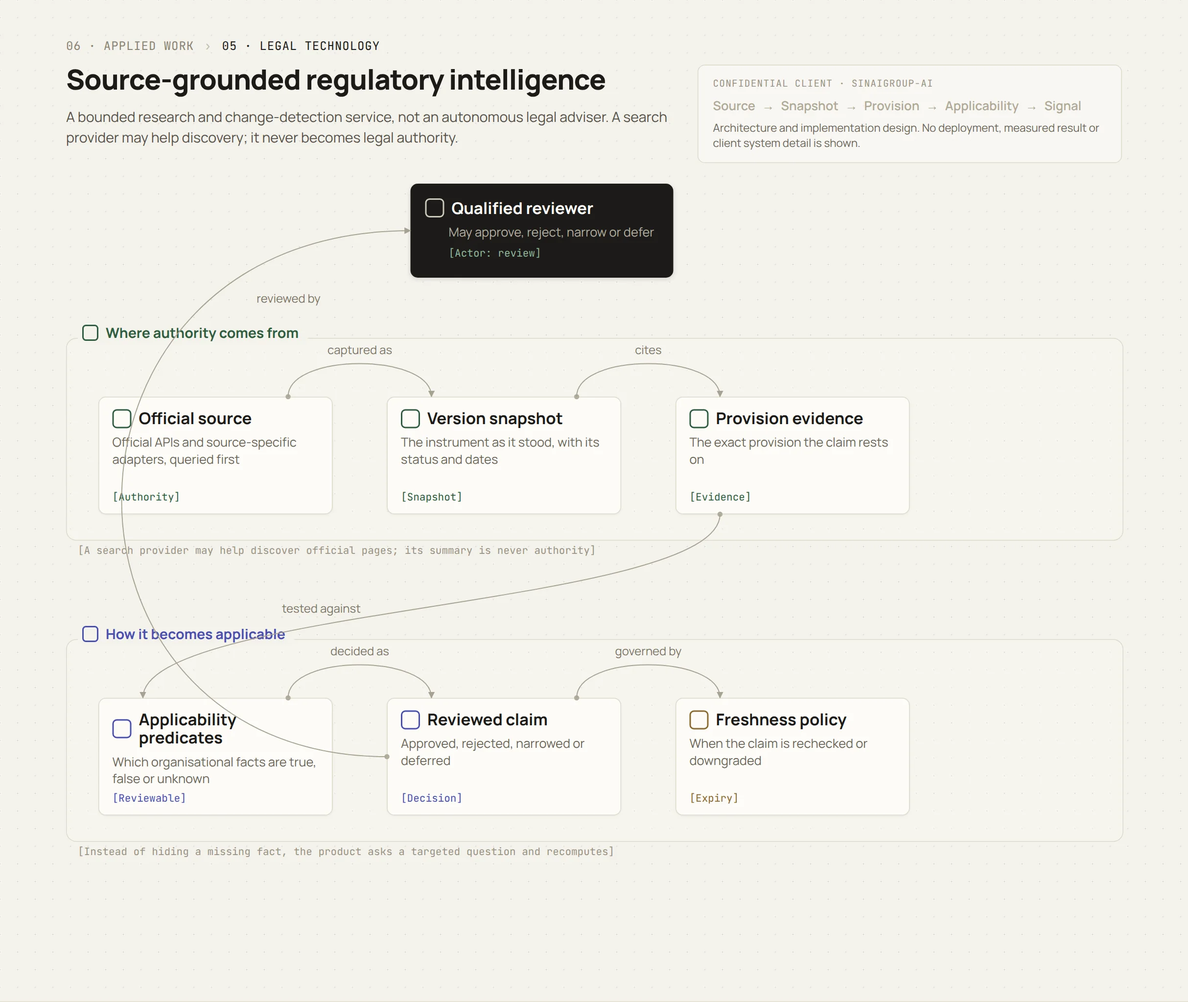
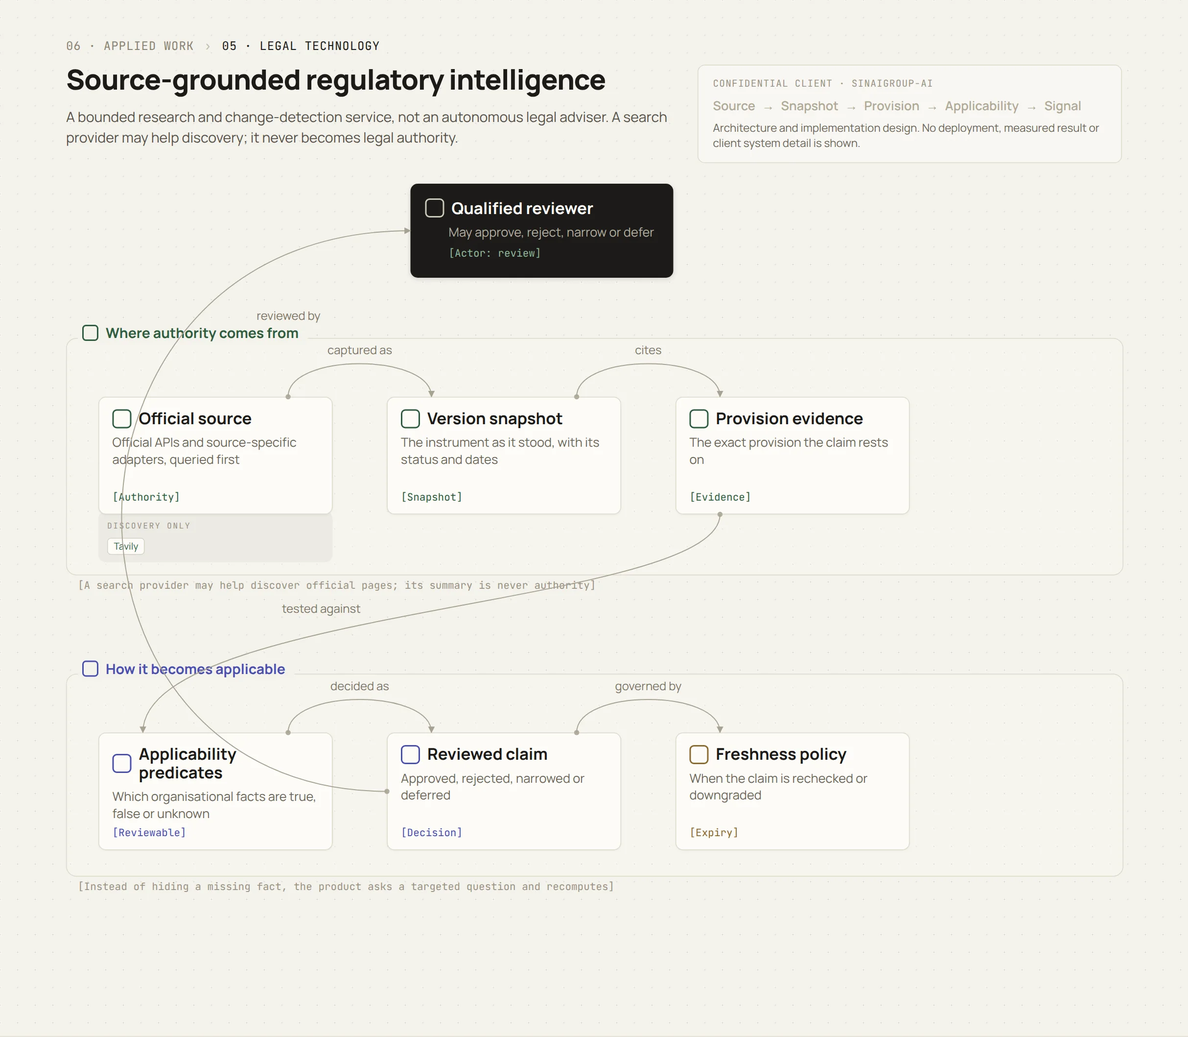
Applied work: restore the TOOLS strips on the legal-operations boards
I dropped them while anonymising the client. That was an over-correction: the
website-ready draft publishes these technologies in its own technology
foundation table, so they were cleared for the public page all along.

Strips carry only names that draft publishes:

  02  version-bound execution  TOOLS            AWS Step Functions, Lambda, S3
  02  AI candidates            TOOLS            Amazon Bedrock
  02  validation               TOOLS            Promptfoo
  01  assurance foundation     TOOLS            Step Functions, Lambda, S3, Bedrock
  04  delivery evidence        TOOLS            EventBridge Scheduler
  05  official source          DISCOVERY ONLY   Tavily
  07  mailbox connector        CANDIDATES       Gmail, Microsoft Graph
  08  foundation / evaluation  TOOLS            Step Functions, Lambda, S3 / Promptfoo

Board 06 carries none; it is about signal meaning, not tooling. The custom
strip labels use the kit's own mechanism, as India board 10 does.

The named technologies are restored in the copy too - the tags, rows 02, 04,
05, 07 and the row 10 preserved / proposed grid.

The client identity stays fully removed: the company name appears 0 times and
nothing from the repository reconstruction reaches the page - no repo path,
function, table, bucket, database project, account, region, domain, model id
or environment. Audited by string check.

Geometry measured in Chromium across all seven boards: 43 component cards all
[…]

diff --git a/index.html b/index.html
@@ -1899,14 +1899,14 @@
 <h2 class="cs-heading">From legal analysis to<br><span class="gold">governed legal action.</span></h2>
 <p class="cs-intro">A problem-solution architecture for a provider of a legal operating system for companies &mdash; a platform that analyses contracts and matter documents as they arrive and links findings back to their source clauses. The client is not named here.</p>
 <p class="cs-intro">The engagement began at the point where capable analysis starts to create operational consequence. A model finding may later drive a deadline, a reminder, a regulatory signal or an email-derived task. At that boundary, a plausible answer is not enough. The system must establish what ran, which evidence supports the result, what uncertainty remains, who approved it and what action the result is permitted to influence.</p>
-<p class="cs-intro">We reviewed the supplied platform baseline and prepared one unified problem-solution architecture and implementation plan. The recommendation was not to replace the platform or introduce a new orchestration framework. It was to preserve the existing cloud-native core and add the execution, evidence, evaluation and human-authority controls required for governed legal operations.</p>
+<p class="cs-intro">We reviewed the supplied platform baseline and prepared one unified problem-solution architecture and implementation plan. The recommendation was not to replace the platform or introduce a new orchestration framework. It was to preserve the existing AWS-native core and add the execution, evidence, evaluation and human-authority controls required for governed legal operations.</p>
 <dl class="cs-facts">
 <div><dt>Client</dt><dd>Confidential client &mdash; a provider of a legal operating system for companies</dd></div>
 <div><dt>Industry</dt><dd>Legal technology &amp; legal operations</dd></div>
 <div><dt>Scope</dt><dd>AI assurance, deadline architecture, regulatory intelligence, product-signal semantics, email ingestion and staged delivery governance</dd></div>
 </dl>
 <ul class="cs-tags">
-<li>AWS</li><li>AI evaluation</li><li>Regulatory intelligence</li><li>AI assurance</li><li>AI governance</li>
+<li>AWS</li><li>Amazon Bedrock</li><li>Promptfoo</li><li>AI evaluation</li><li>AI governance</li>
 </ul>
 <ul class="cs-jump" aria-label="Sections of this case">
 <li><a href="#par-challenge">The challenge</a></li>
@@ -1933,7 +1933,7 @@
 <p>The platform already had a sophisticated document-analysis pipeline. The unresolved issue was not whether the models could produce useful findings. It was whether a material finding could be trusted, reproduced and safely acted upon after the prompt, model, document set or legal context changed.</p>
 <p>The most dangerous failure is compositional: each individual part can look reasonable while the combined result is wrong. A system may identify the correct obligation, assign it to the wrong party, miss a later amendment and still present a confident positive status. The architecture therefore had to govern the chain, not only improve isolated model outputs.</p>
 <p><span class="cs-label">The requirement:</span> govern the chain, so that a finding carries its evidence, its uncertainty and its permitted consequence.</p>
-<figure class="cs-diagram"><figcaption><span>Five requests, one foundation</span><a href="diagrams/par-five-requests.webp" target="_blank" rel="noopener">Open full size &#8599;</a></figcaption><a class="cs-diagram-view" href="diagrams/par-five-requests.webp" target="_blank" rel="noopener" aria-label="Open full-size diagram: Five requests, one foundation"><img src="diagrams/par-five-requests.webp" width="2427" height="2445" loading="lazy" decoding="async" alt="Five product requests - AI quality, material dates, regulatory research, the traffic-light signal and email integration - all resting on one shared assurance foundation of version binding, evidence, evaluation and human authority."></a></figure>
+<figure class="cs-diagram"><figcaption><span>Five requests, one foundation</span><a href="diagrams/par-five-requests.webp" target="_blank" rel="noopener">Open full size &#8599;</a></figcaption><a class="cs-diagram-view" href="diagrams/par-five-requests.webp" target="_blank" rel="noopener" aria-label="Open full-size diagram: Five requests, one foundation"><img src="diagrams/par-five-requests.webp" width="2427" height="2559" loading="lazy" decoding="async" alt="Five product requests - AI quality, material dates, regulatory research, the traffic-light signal and email integration - all resting on one shared assurance foundation of version binding, evidence, evaluation and human authority."></a></figure>
 </div>
 </article>
 
@@ -1942,10 +1942,10 @@
 <div class="cs-body">
 <h3 class="rtitle">The design decision</h3>
 <p class="cs-question">What should be preserved, and what must be added around it?</p>
-<p>The audit did not support a platform rewrite. The existing state-level decomposition, object-store source orientation, quotation fields, deterministic quote-offset resolution, structured analysis slices, human review points and layered authorisation were useful foundations. Replacing the orchestration layer merely to obtain an evaluation framework would have introduced another large variable without supplying ground truth, version binding or release policy.</p>
+<p>The audit did not support a platform rewrite. The existing state-level decomposition, S3-backed source orientation, quotation fields, deterministic quote-offset resolution, structured analysis slices, human review points and layered authorisation were useful foundations. Replacing Step Functions merely to obtain an evaluation framework would have introduced another large variable without supplying ground truth, version binding or release policy.</p>
 <p>The architectural decision was to add a governed control layer around the existing engine: one authoritative, idempotent path for creating an analysis run; an immutable manifest binding the source object, code artefact, rendered prompt, schema, taxonomy, model configuration, guardrail and policy before execution; server-side human gates that expose only opaque identifiers and preserve the candidate and the reviewer decision separately; append-only candidate, decision and slice revisions with explicit approved pointers; evidence-propagation rules that prevent unsupported quotations from gaining downstream authority; and a durable assurance ledger that survives the retention window of operational orchestration history.</p>
 <p class="cs-quote">Source evidence &rarr; Version-bound execution &rarr; AI candidates &rarr; Validation &rarr; Human authority &rarr; Scoped action &rarr; Outcome and learning</p>
-<figure class="cs-diagram"><figcaption><span>The governed control layer</span><a href="diagrams/par-control-layer.webp" target="_blank" rel="noopener">Open full size &#8599;</a></figcaption><a class="cs-diagram-view" href="diagrams/par-control-layer.webp" target="_blank" rel="noopener" aria-label="Open full-size diagram: The governed control layer"><img src="diagrams/par-control-layer.webp" width="2427" height="2046" loading="lazy" decoding="async" alt="Source evidence is bound into a version-bound execution manifest, which produces AI candidates; validation authorises a scoped action and records the outcome, with human authority approving between the two."></a></figure>
+<figure class="cs-diagram"><figcaption><span>The governed control layer</span><a href="diagrams/par-control-layer.webp" target="_blank" rel="noopener">Open full size &#8599;</a></figcaption><a class="cs-diagram-view" href="diagrams/par-control-layer.webp" target="_blank" rel="noopener" aria-label="Open full-size diagram: The governed control layer"><img src="diagrams/par-control-layer.webp" width="2427" height="2187" loading="lazy" decoding="async" alt="Source evidence is bound into a version-bound execution manifest, which produces AI candidates; validation authorises a scoped action and records the outcome, with human authority approving between the two."></a></figure>
 </div>
 </article>
 
@@ -1954,7 +1954,7 @@
 <div class="cs-body">
 <h3 class="rtitle">A quality gate for legal document analysis</h3>
 <p class="cs-question">How can a release prove that it became better rather than merely different?</p>
-<p>The proposed evaluation system binds every test to the exact executable candidate intended for release. A lawyer-labelled case library provides stratified ground truth across document types, languages and material legal issues. An off-the-shelf harness may run comparisons, but it is not the source of truth: client-owned validators test quotations, invariants, coherence and workflow behaviour, while qualified legal adjudication remains authoritative for material legal correctness.</p>
+<p>The proposed evaluation system binds every test to the exact executable candidate intended for release. A lawyer-labelled case library provides stratified ground truth across document types, languages and material legal issues. Promptfoo may run comparisons, but it is not the source of truth: client-owned validators test quotations, invariants, coherence and workflow behaviour, while qualified legal adjudication remains authoritative for material legal correctness.</p>
 <p>Evaluation runs at four levels: deterministic unit fixtures, stage-level model evaluation, real workflow replay and shadow or canary evidence. A release is blocked when a critical case regresses, even if the average score rises. Every result resolves to the same manifest used by the candidate build, so a passing test cannot be detached from what production would actually execute.</p>
 </div>
 </article>
@@ -1965,8 +1965,8 @@
 <h3 class="rtitle">From a date mention to a managed deadline</h3>
 <p class="cs-question">What must happen before &ldquo;within 30 days&rdquo; becomes a reminder?</p>
 <p>The design separates six objects that are often collapsed into one field: the literal temporal mention, the business event that starts the clock, the governing temporal rule, the obligation and responsible party, the approved deadline revision, and the notification intent with its delivery attempts.</p>
-<p>The model identifies evidence and proposes a rule. Deterministic code applies the supported calendar, timezone, inclusion and roll-forward rules. A qualified reviewer approves material or ambiguous interpretations. The database commits the deadline revision and notification intent together through a transactional outbox. The scheduler acts only as the clock; the governed deadline ledger remains the source of truth. Amendments and cancellations create new revisions, and a stale scheduled event becomes a no-op rather than an incorrect reminder.</p>
-<figure class="cs-diagram"><figcaption><span>From a mention to a deadline</span><a href="diagrams/par-deadline.webp" target="_blank" rel="noopener">Open full size &#8599;</a></figcaption><a class="cs-diagram-view" href="diagrams/par-deadline.webp" target="_blank" rel="noopener" aria-label="Open full-size diagram: From a date mention to a managed deadline"><img src="diagrams/par-deadline.webp" width="2427" height="2046" loading="lazy" decoding="async" alt="A temporal mention, the trigger event that starts the clock and the governing temporal rule are computed into an approved deadline revision, a notification intent committed in the same transaction, and delivery evidence."></a></figure>
+<p>The model identifies evidence and proposes a rule. Deterministic code applies the supported calendar, timezone, inclusion and roll-forward rules. A qualified reviewer approves material or ambiguous interpretations. The database commits the deadline revision and notification intent together through a transactional outbox. EventBridge Scheduler acts only as the clock; the governed deadline ledger remains the source of truth. Amendments and cancellations create new revisions, and a stale scheduled event becomes a no-op rather than an incorrect reminder.</p>
+<figure class="cs-diagram"><figcaption><span>From a mention to a deadline</span><a href="diagrams/par-deadline.webp" target="_blank" rel="noopener">Open full size &#8599;</a></figcaption><a class="cs-diagram-view" href="diagrams/par-deadline.webp" target="_blank" rel="noopener" aria-label="Open full-size diagram: From a date mention to a managed deadline"><img src="diagrams/par-deadline.webp" width="2427" height="2117" loading="lazy" decoding="async" alt="A temporal mention, the trigger event that starts the clock and the governing temporal rule are computed into an approved deadline revision, a notification intent committed in the same transaction, and delivery evidence."></a></figure>
 </div>
 </article>
 
@@ -1975,10 +1975,10 @@
 <div class="cs-body">
 <h3 class="rtitle">Source-grounded regulatory intelligence</h3>
 <p class="cs-question">How can the system establish that a rule is authoritative, current and applicable?</p>
-<p>The proposed regulatory workflow is a bounded research and change-detection service, not an autonomous legal adviser. It queries official APIs and source-specific adapters first. A general search provider may help discover likely official pages, but its ranking, summary or extracted answer can never become legal authority.</p>
+<p>The proposed regulatory workflow is a bounded research and change-detection service, not an autonomous legal adviser. It queries official APIs and source-specific adapters first. Search providers such as Tavily may help discover likely official pages, but their ranking, summary or extracted answer can never become legal authority.</p>
 <p>Every material claim links to a versioned source snapshot, exact provision evidence, instrument status and effective dates. Applicability is represented as reviewable predicates: which organisational facts are true, false or unknown, and which evidence supports each one. A qualified reviewer may approve, reject, narrow or defer the claim. Freshness policies then determine when the claim must be checked again or downgraded.</p>
 <p>This structure makes uncertainty useful. Instead of hiding a missing fact inside prose, the product can ask a targeted question, retain the unknown state and recompute after the answer arrives.</p>
-<figure class="cs-diagram"><figcaption><span>Where authority comes from</span><a href="diagrams/par-regulatory.webp" target="_blank" rel="noopener">Open full size &#8599;</a></figcaption><a class="cs-diagram-view" href="diagrams/par-regulatory.webp" target="_blank" rel="noopener" aria-label="Open full-size diagram: Source-grounded regulatory intelligence"><img src="diagrams/par-regulatory.webp" width="2427" height="2046" loading="lazy" decoding="async" alt="An official source is captured as a version snapshot citing exact provision evidence, tested against reviewable applicability predicates, decided by a qualified reviewer and governed by a freshness policy."></a></figure>
+<figure class="cs-diagram"><figcaption><span>Where authority comes from</span><a href="diagrams/par-regulatory.webp" target="_blank" rel="noopener">Open full size &#8599;</a></figcaption><a class="cs-diagram-view" href="diagrams/par-regulatory.webp" target="_blank" rel="noopener" aria-label="Open full-size diagram: Source-grounded regulatory intelligence"><img src="diagrams/par-regulatory.webp" width="2427" height="2117" loading="lazy" decoding="async" alt="An official source is captured as a version snapshot citing exact provision evidence, tested against reviewable applicability predicates, decided by a qualified reviewer and governed by a freshness policy."></a></figure>
 </div>
 </article>
 
@@ -1999,9 +1999,9 @@
 <div class="cs-body">
 <h3 class="rtitle">Email integration in two releases</h3>
 <p class="cs-question">Why is a forwarded attachment not the same product as continuous mailbox access?</p>
-<p>The first release is a narrow email-to-document gateway. A tenant-specific opaque address receives a deliberately forwarded message. Original message bytes enter quarantine before parsing; attachments are limited, type-checked, scanned, hashed and routed into the existing document pipeline only after tenant resolution and security controls succeed. The user receives an auditable receipt for accepted, duplicate, unsupported, quarantined and failed items. Email-body instructions cannot call tools or authorise an external action.</p>
-<p>Continuous mailbox monitoring is a separate go or no-go decision. If the gateway demonstrates value, one mailbox connector may enter a read-only shadow pilot for one mailbox class and one defined question. It requires least-privilege authorisation, subscription renewal, a durable cursor, missed-notification reconciliation, immutable evidence, retention rules and prompt-injection controls. Send, move, delete and mailbox-mutation authority remain outside the initial scope.</p>
-<figure class="cs-diagram"><figcaption><span>Two releases, one boundary</span><a href="diagrams/par-email.webp" target="_blank" rel="noopener">Open full size &#8599;</a></figcaption><a class="cs-diagram-view" href="diagrams/par-email.webp" target="_blank" rel="noopener" aria-label="Open full-size diagram: Email integration in two releases"><img src="diagrams/par-email.webp" width="2427" height="2046" loading="lazy" decoding="async" alt="A forwarded message is quarantined and checked before entering the existing document pipeline; a read-only mailbox connector and any send authority remain conditional on a separate decision gate."></a></figure>
+<p>The first release is a narrow email-to-document gateway. A tenant-specific opaque address receives a deliberately forwarded message. Original MIME bytes enter quarantine before parsing; attachments are limited, type-checked, scanned, hashed and routed into the existing document pipeline only after tenant resolution and security controls succeed. The user receives an auditable receipt for accepted, duplicate, unsupported, quarantined and failed items. Email-body instructions cannot call tools or authorise an external action.</p>
+<p>Continuous mailbox monitoring is a separate go or no-go decision. If the gateway demonstrates value, one mailbox connector may enter a read-only shadow pilot for one mailbox class and one defined question. It requires least-privilege OAuth, subscription renewal, a durable cursor, missed-notification reconciliation, immutable evidence, retention rules and prompt-injection controls. Send, move, delete and mailbox-mutation authority remain outside the initial scope.</p>
+<figure class="cs-diagram"><figcaption><span>Two releases, one boundary</span><a href="diagrams/par-email.webp" target="_blank" rel="noopener">Open full size &#8599;</a></figcaption><a class="cs-diagram-view" href="diagrams/par-email.webp" target="_blank" rel="noopener" aria-label="Open full-size diagram: Email integration in two releases"><img src="diagrams/par-email.webp" width="2427" height="2117" loading="lazy" decoding="async" alt="A forwarded message is quarantined and checked before entering the existing document pipeline; a read-only mailbox connector and any send authority remain conditional on a separate decision gate."></a></figure>
 </div>
 </article>
 
@@ -2011,7 +2011,7 @@
 <h3 class="rtitle">A gated implementation sequence</h3>
 <p class="cs-question">How does the programme prevent schedule pressure from becoming authority?</p>
 <p>The six architecture blocks become one fork-and-join programme. The execution and evidence foundation comes first, followed by the common evaluation baseline. Only then do three independent product tracks begin: managed dates and reminders; regulatory research followed by the native signal; and the email-to-document gateway. Mandatory release readiness requires evidence from all three tracks. The mailbox connector remains an optional extension after its own decision gate.</p>
-<figure class="cs-diagram"><figcaption><span>Foundation, tracks, join</span><a href="diagrams/par-delivery.webp" target="_blank" rel="noopener">Open full size &#8599;</a></figcaption><a class="cs-diagram-view" href="diagrams/par-delivery.webp" target="_blank" rel="noopener" aria-label="Open full-size diagram: A gated implementation sequence"><img src="diagrams/par-delivery.webp" width="2427" height="2661" loading="lazy" decoding="async" alt="The execution and evidence foundation and the evaluation baseline come first, then three independent product tracks, then a mandatory release-readiness join, with the mailbox connector as an optional extension."></a></figure>
+<figure class="cs-diagram"><figcaption><span>Foundation, tracks, join</span><a href="diagrams/par-delivery.webp" target="_blank" rel="noopener">Open full size &#8599;</a></figcaption><a class="cs-diagram-view" href="diagrams/par-delivery.webp" target="_blank" rel="noopener" aria-label="Open full-size diagram: A gated implementation sequence"><img src="diagrams/par-delivery.webp" width="2427" height="2732" loading="lazy" decoding="async" alt="The execution and evidence foundation and the evaluation baseline come first, then three independent product tracks, then a mandatory release-readiness join, with the mailbox connector as an optional extension."></a></figure>
 </div>
 </article>
 
@@ -2026,7 +2026,7 @@
 <section><h4>Regulatory traceability</h4><p>A change can be tied to an authoritative versioned source, reviewed applicability and an owned freshness policy.</p></section>
 <section><h4>Safer product signals</h4><p>A user can see what was assessed, what remains unknown, why the state has its colour, when it expires and what action is actually permitted.</p></section>
 <section><h4>Bounded integration</h4><p>Email value can be tested through explicit forwarding before the organisation assumes mailbox-wide authorisation, synchronisation and privacy risk.</p></section>
-<section><h4>Preserved platform investment</h4><p>The existing cloud-native engine remains in place while the missing evidence, control and authority mechanisms are added around it.</p></section>
+<section><h4>Preserved platform investment</h4><p>The existing AWS-native engine remains in place while the missing evidence, control and authority mechanisms are added around it.</p></section>
 </div>
 </div>
 </article>
@@ -2037,12 +2037,12 @@
 <h3 class="rtitle">Technology foundation</h3>
 <p class="cs-question">Which components already exist, and which belong to the proposed control layer?</p>
 <div class="cs-mgrid">
-<section><h4>Execution</h4><p><em>Preserved:</em> managed state-machine orchestration, serverless functions and object-store source artefacts.</p><p><em>Proposed:</em> a single run-creation service, a server-side gate service, immutable manifests and an assurance ledger.</p></section>
-<section><h4>Models</h4><p><em>Preserved:</em> managed foundation-model stages and structured analysis slices.</p><p><em>Proposed:</em> version-bound evaluation, deterministic validators, calibrated routing and legal adjudication.</p></section>
-<section><h4>Evaluation</h4><p><em>Preserved:</em> stage decomposition and existing provenance fragments.</p><p><em>Proposed:</em> an off-the-shelf harness as runner only, a client-owned case library, workflow replay and regression release gates.</p></section>
-<section><h4>Deadlines</h4><p><em>Preserved:</em> extracted event candidates and timeline display.</p><p><em>Proposed:</em> a typed temporal engine, revisions, a transactional outbox, a scheduler and delivery reconciliation.</p></section>
+<section><h4>Execution</h4><p><em>Preserved:</em> AWS Step Functions, Lambda and S3-backed source artefacts.</p><p><em>Proposed:</em> a single run-creation service, a server-side gate service, immutable manifests and an assurance ledger.</p></section>
+<section><h4>Models</h4><p><em>Preserved:</em> Amazon Bedrock model stages and structured analysis slices.</p><p><em>Proposed:</em> version-bound evaluation, deterministic validators, calibrated routing and legal adjudication.</p></section>
+<section><h4>Evaluation</h4><p><em>Preserved:</em> stage decomposition and existing provenance fragments.</p><p><em>Proposed:</em> Promptfoo as runner only, a client-owned case library, workflow replay and regression release gates.</p></section>
+<section><h4>Deadlines</h4><p><em>Preserved:</em> extracted event candidates and timeline display.</p><p><em>Proposed:</em> a typed temporal engine, revisions, a transactional outbox, EventBridge Scheduler and delivery reconciliation.</p></section>
 <section><h4>Regulatory</h4><p><em>Preserved:</em> the organisation profile and bounded review-domain selection.</p><p><em>Proposed:</em> an official-source registry, version snapshots, a bounded research workflow, reviewed applicability and freshness monitoring.</p></section>
-<section><h4>Email</h4><p><em>Preserved:</em> the existing document pipeline and outbound transactional mail.</p><p><em>Proposed:</em> a quarantined inbound gateway first; a conditional read-only mailbox connector later.</p></section>
+<section><h4>Email</h4><p><em>Preserved:</em> the existing document pipeline and outbound transactional mail.</p><p><em>Proposed:</em> a quarantined inbound gateway first; a conditional Gmail or Microsoft Graph connector later.</p></section>
 </div>
 </div>
 </article>
